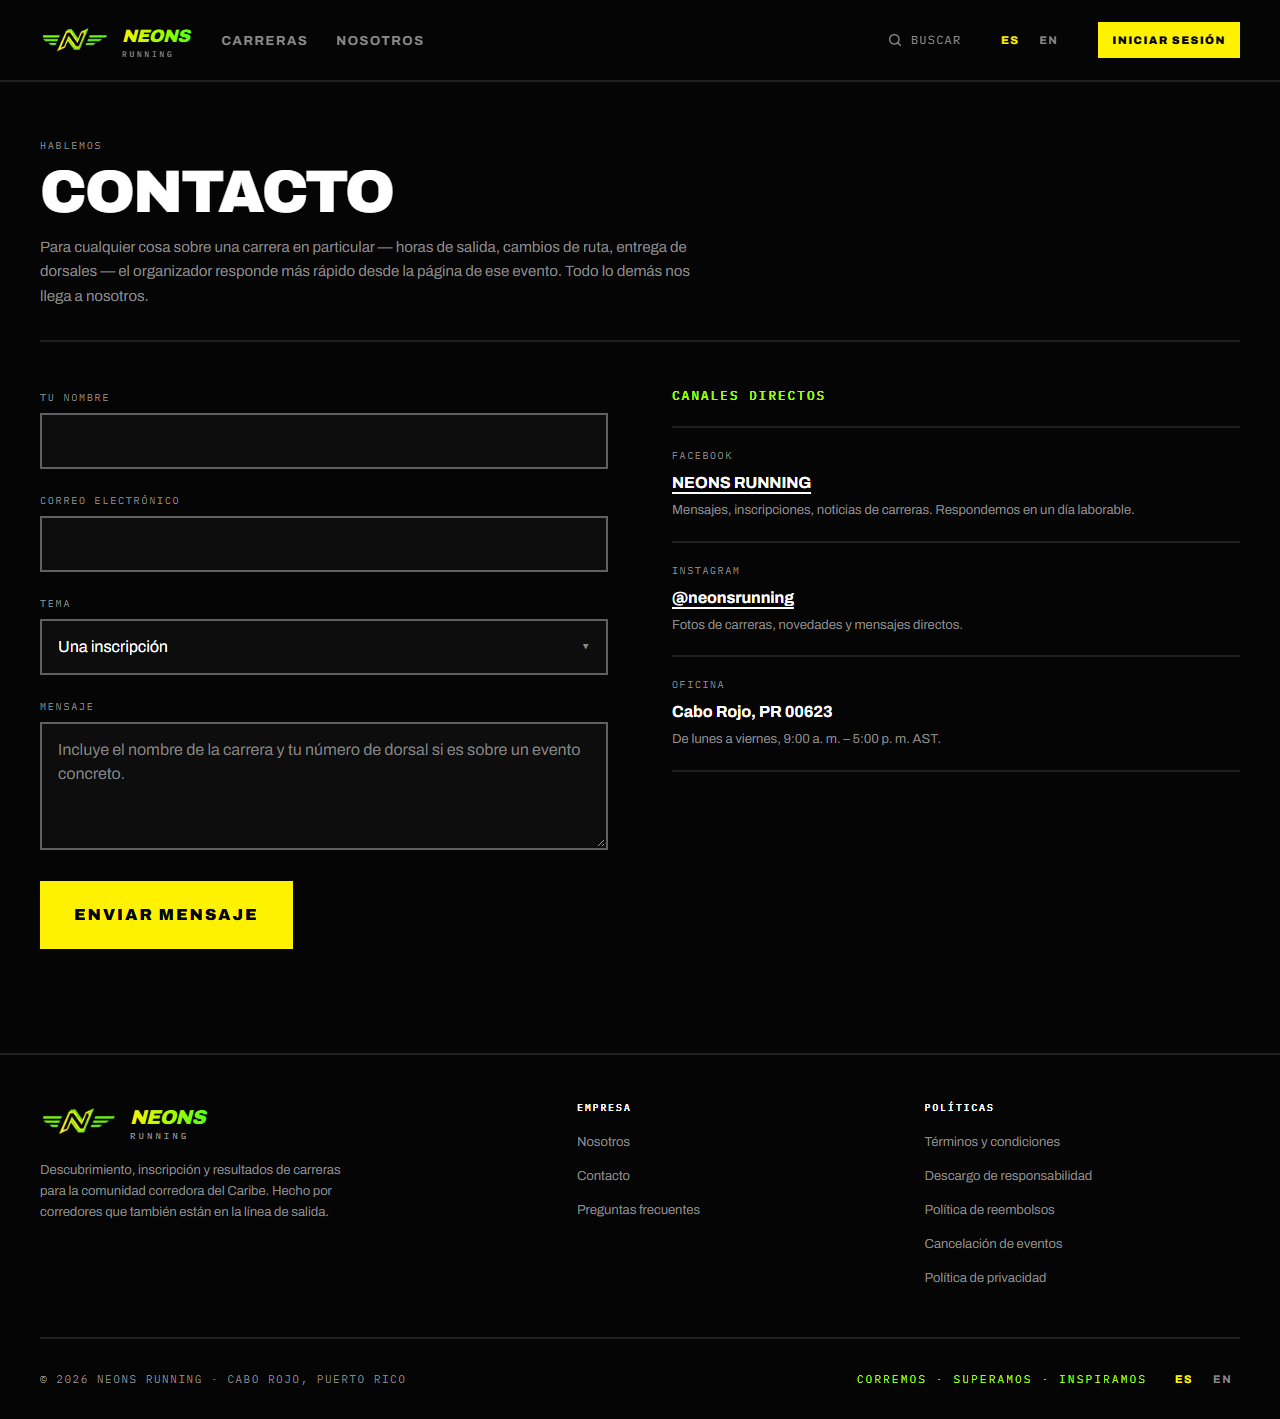
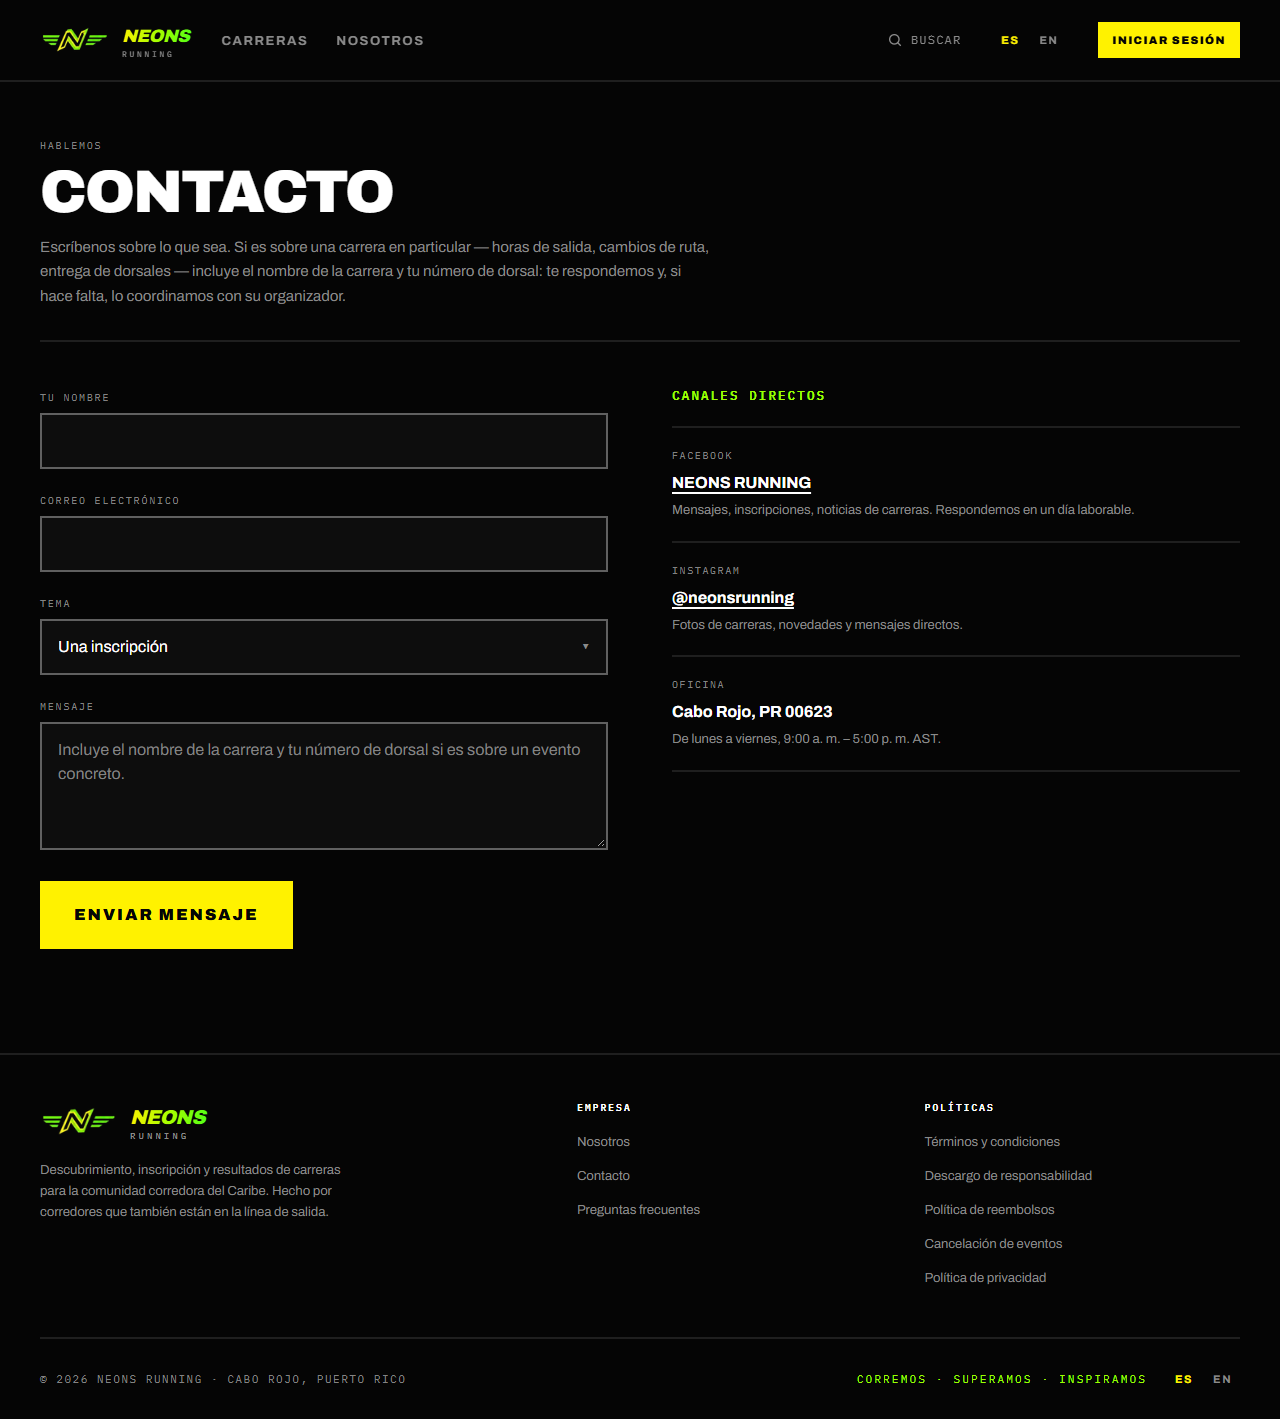
Say that race questions reach the organizer through the team
The contact page and the FAQ told runners to reach a race's organizer from
its page, but organizers publishing from /publish keep their email private,
so "Contact organizer" on the Organizer tab only ever opened our contact
form. The copy now says to write to us with the race name, and the button
reads "Ask about this race" (with a line on how it works) unless the
organizer has a public email. Manual updated to match.

Changed region(s): [[0.0312, 0.155, 0.5312, 0.2171]]

diff --git a/components/events/event-detail-tabs.tsx b/components/events/event-detail-tabs.tsx
@@ -396,15 +396,25 @@ export function EventDetailTabs({
                   </div>
                 </dl>
               ) : null}
-              <div className="mt-6 flex flex-wrap gap-3">
-                {/* Organizers publishing from /publish keep their email in
-                    `profile_private`, so runners reach them through us. */}
+              {/* Organizers publishing from /publish keep their email in
+                  `profile_private`, so runners reach them through us — and
+                  the button says so rather than promising the organizer. */}
+              {organizer.email ? null : (
+                <p className="mt-6 max-w-[60ch] text-sm text-fg-dim">
+                  {t("events.tabs.askAboutRaceHint")}
+                </p>
+              )}
+              <div className={cn("flex flex-wrap gap-3", organizer.email ? "mt-6" : "mt-4")}>
                 <Button
                   href={organizer.email ? `mailto:${organizer.email}` : "/contact"}
                   variant="outline"
                   size="md"
                 >
-                  {t("events.tabs.contactOrganizer")}
+                  {t(
+                    organizer.email
+                      ? "events.tabs.contactOrganizer"
+                      : "events.tabs.askAboutRace",
+                  )}
                 </Button>
                 {organizer.website ? (
                   <Button href="/contact" variant="ghost" size="md">

diff --git a/docs/manual/05-visitante.md b/docs/manual/05-visitante.md
@@ -140,7 +140,14 @@ el último paso del asistente para publicar eventos.
    número de dorsal.
 4. Pulsa **Enviar mensaje**.
 
-Verás *"Mensaje enviado"*. El equipo responde en un día laborable. A la
+**¿Una pregunta sobre una carrera concreta?** También se escribe aquí. En la
+pestaña **Organizador** de cada carrera, el botón **Preguntar sobre esta
+carrera** trae a este formulario: los organizadores no publican su correo, así
+que el equipo responde y, si hace falta, lo coordina con el organizador.
+
+![Pestaña Organizador con el botón Preguntar sobre esta carrera](img/visitante/organizador-contacto.png)
+
+Al enviar, verás *"Mensaje enviado"*. El equipo responde en un día laborable. A la
 derecha están los **canales directos**: Facebook, Instagram y la oficina en
 Cabo Rojo (lunes a viernes, 9:00 a. m. – 5:00 p. m.).
 
@@ -149,7 +156,12 @@ Si envías varios mensajes seguidos, el formulario pide esperar una hora.
 > **🛠 Nota técnica:** `lib/contact/actions.ts` envía el mensaje con Brevo a
 > `CONTACT_EMAIL` (o al remitente de Brevo), con *Reply-To* del visitante, y
 > tiene límite de frecuencia. Sin Brevo configurado, el formulario responde
-> *"El formulario de contacto no está disponible ahora"*.
+> *"El formulario de contacto no está disponible ahora"*. En la pestaña
+> **Organizador**, el botón muestra **Contactar al organizador** con un enlace
+> `mailto:` solo si el organizador tiene un correo público. En los eventos
+> publicados desde `/publish` ese correo no se expone (está en
+> `profile_private`), así que el botón dice **Preguntar sobre esta carrera** y
+> lleva a `/contact` (`components/events/event-detail-tabs.tsx`).
 
 ## 5.8 Idioma
 
